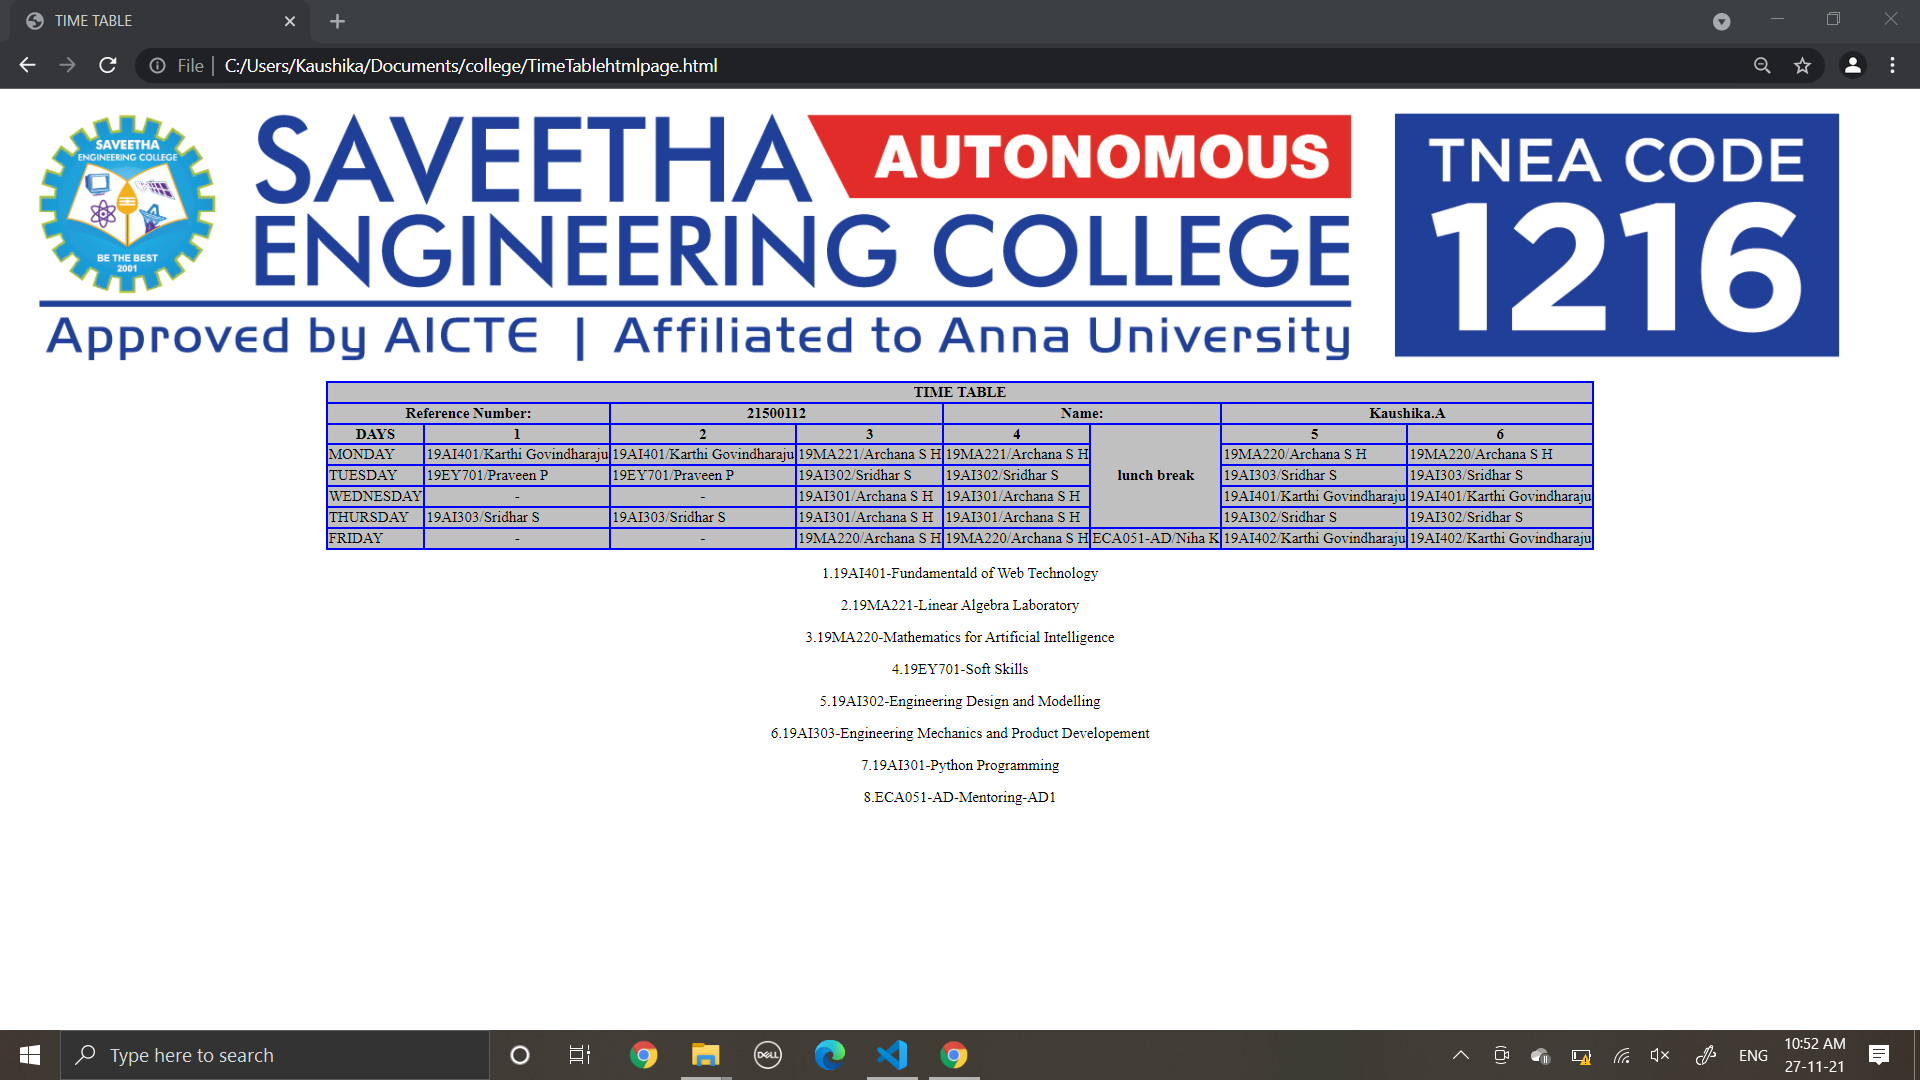
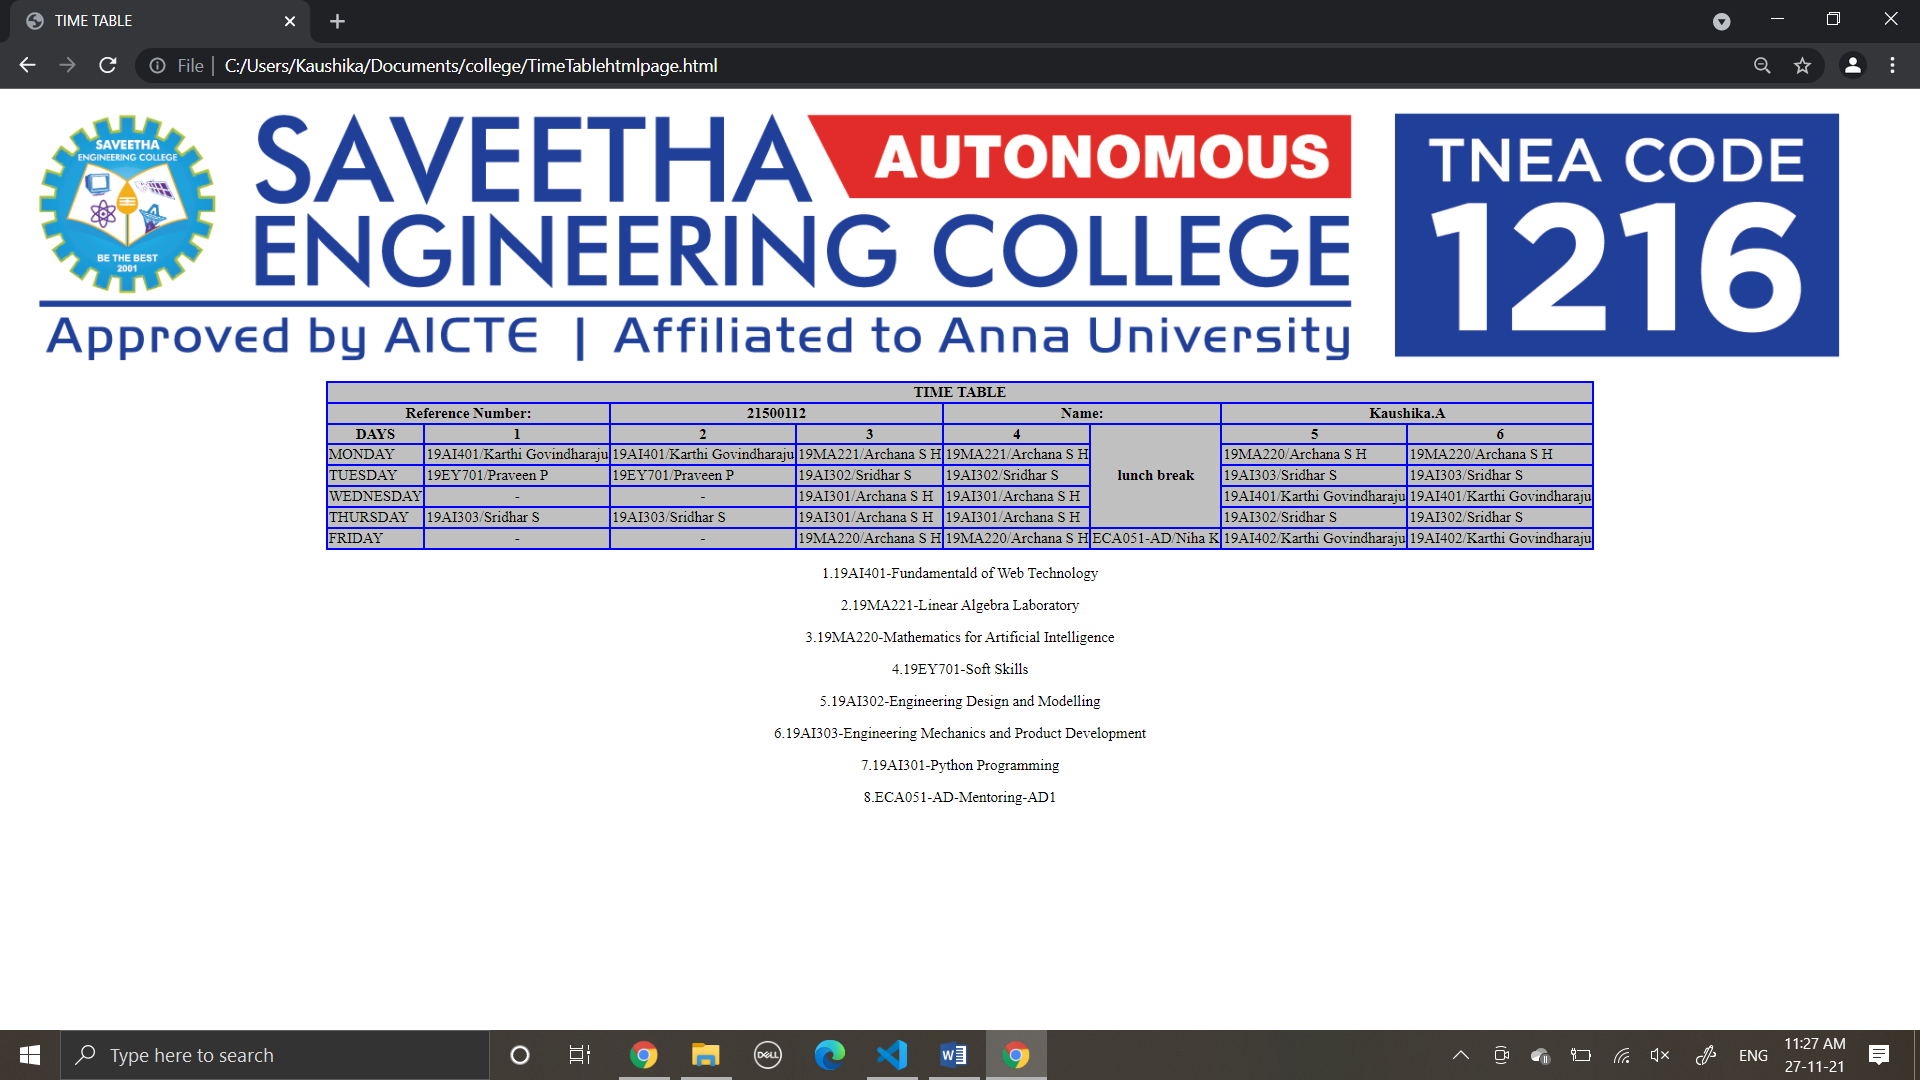
commit on 'main'

diff --git a/README.md b/README.md
@@ -107,7 +107,7 @@ Execute the program
       <p  align="center">3.19MA220-Mathematics for Artificial Intelligence</p>
       <p  align="center">4.19EY701-Soft Skills</p>
       <p  align="center">5.19AI302-Engineering Design and Modelling</p>
-      <p  align="center">6.19AI303-Engineering Mechanics and Product Developement</p>
+      <p  align="center">6.19AI303-Engineering Mechanics and Product  Development</p>
       <p  align="center">7.19AI301-Python Programming</p>
       <p  align="center">8.ECA051-AD-Mentoring-AD1</p>
    </body>
